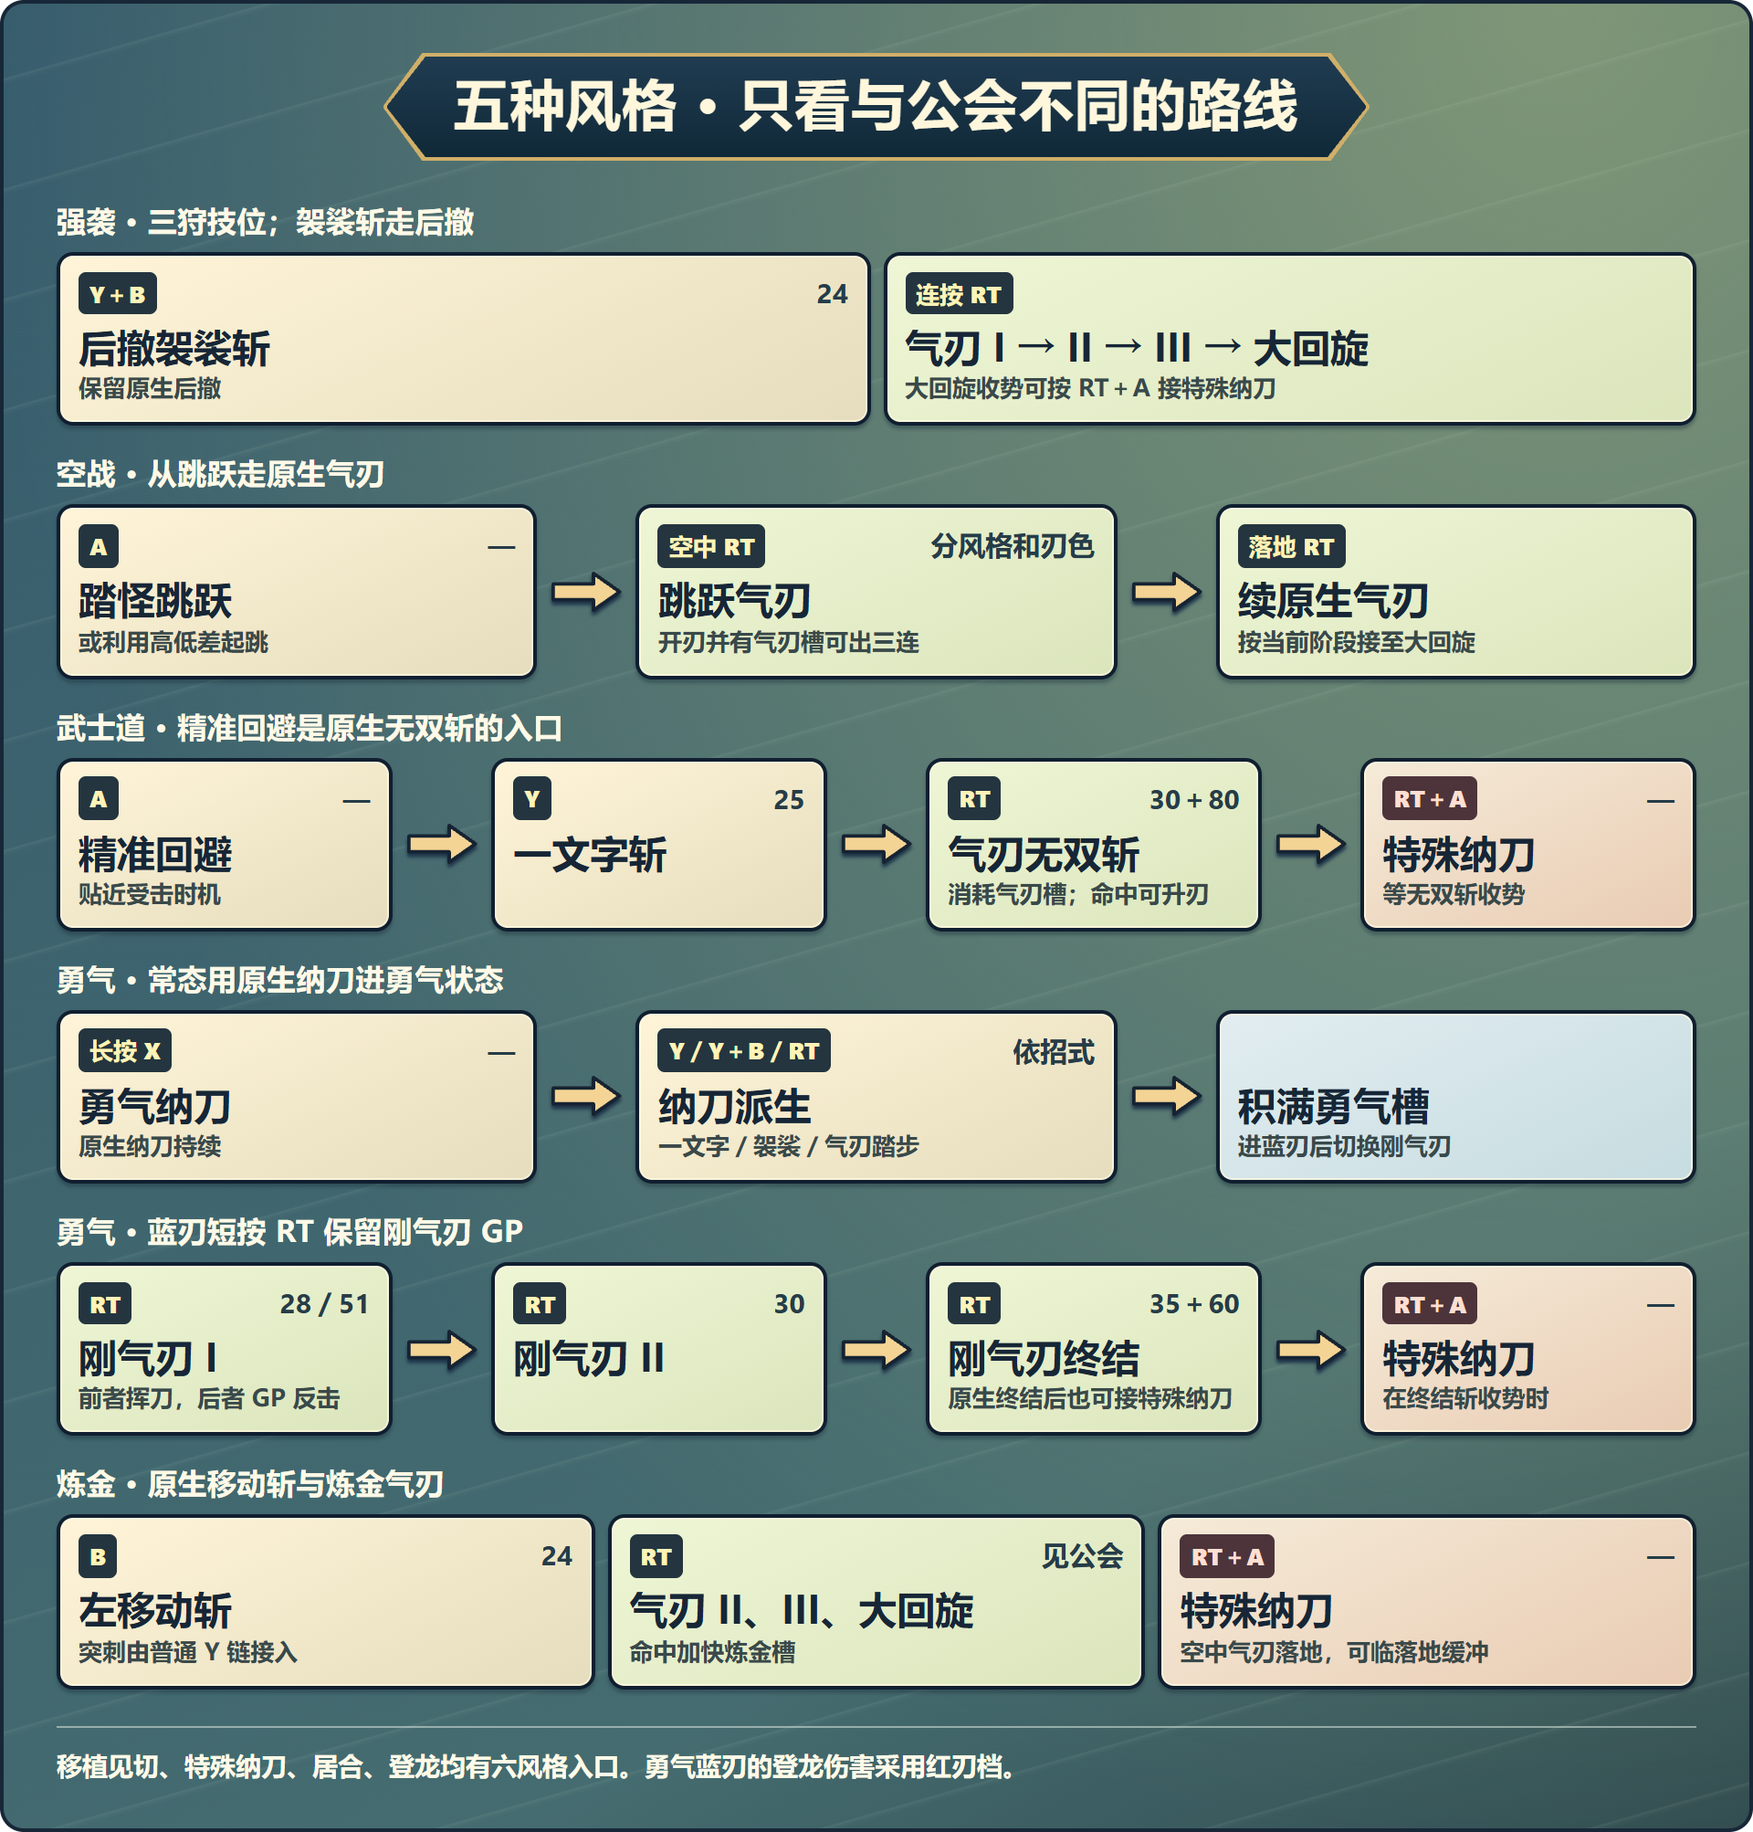
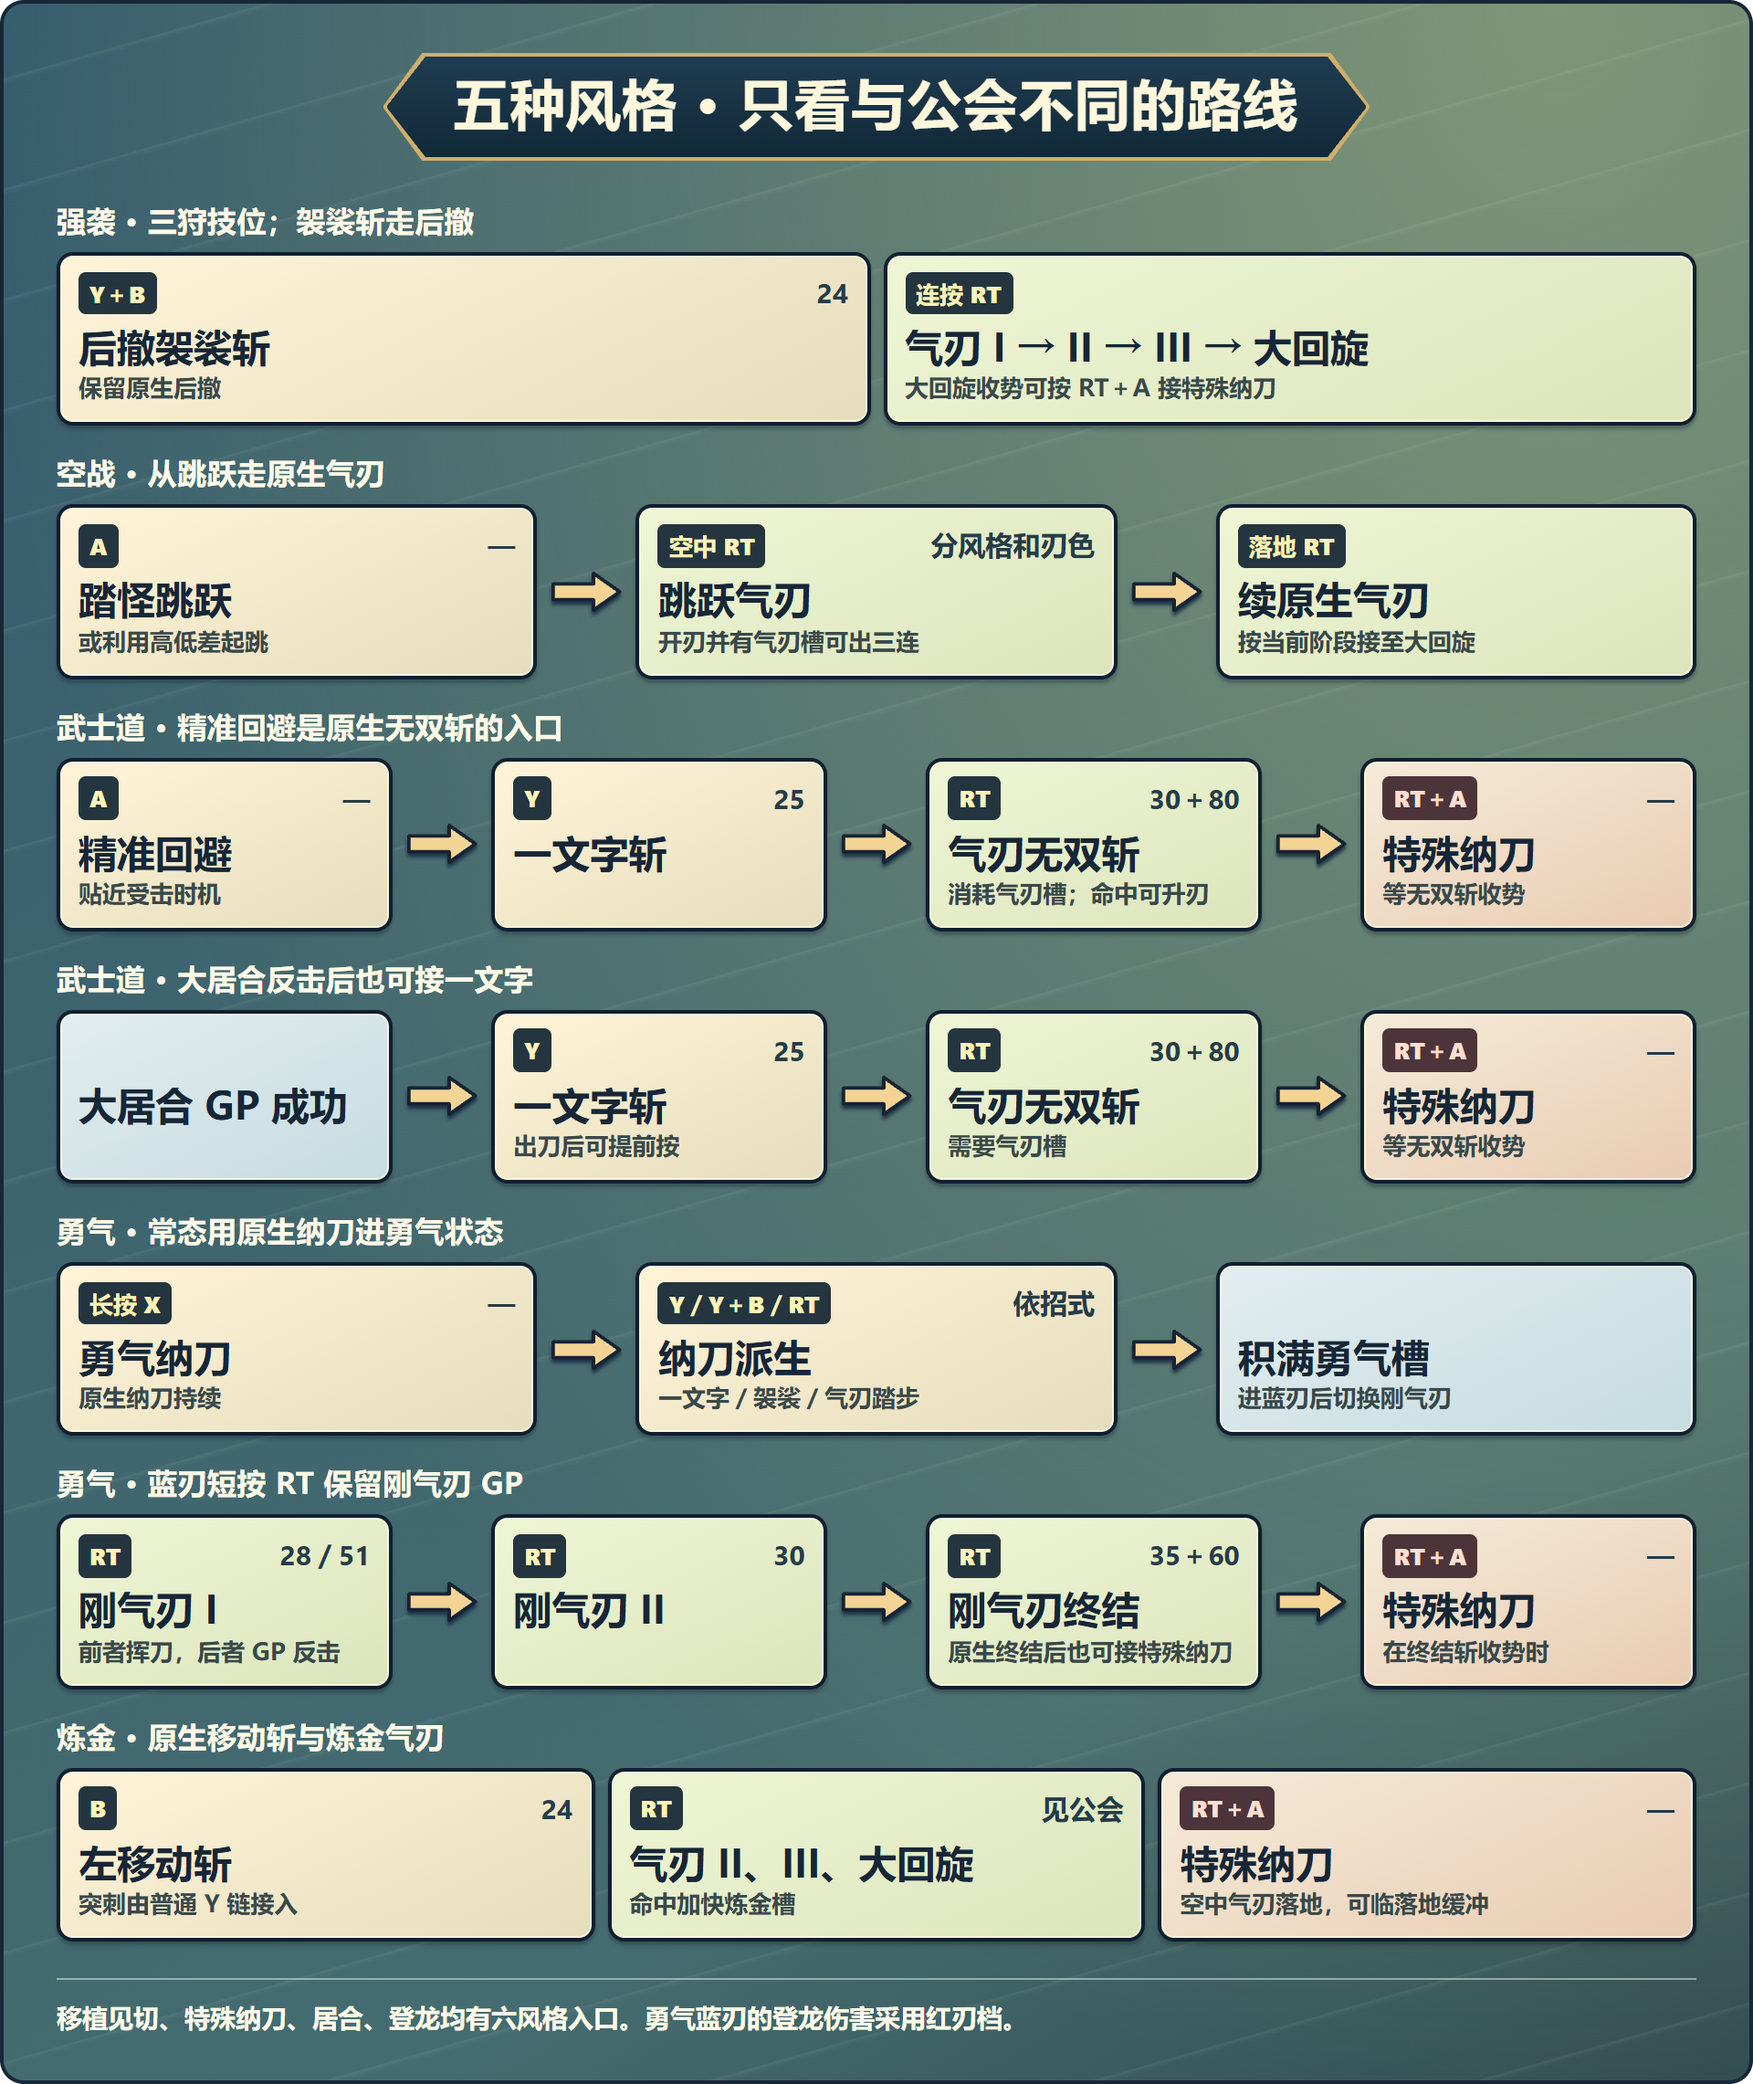
Link Adept Iai counters to the native Ichimonji and Reckoning chain

diff --git a/README.md b/README.md
@@ -2,13 +2,13 @@
 
 把《世界／冰原》的见切、居合、登龙和《荒野》的赤刃、气刃蓄力、练气解放带进《怪物猎人 GU》。六种狩猎风格都能用这套太刀，勇气刚气刃、武士道无双斩等原生招式仍可使用。
 
-**[下载 v1.2.9 整合包](https://github.com/skeyep/MHGU-Yuzu-ZR/releases/download/v1.2.9/MHGU-Yuzu-ZR-v1.2.9.zip)** · [更新记录](CHANGELOG.md) · [来源与修改说明](SOURCES.md) · [项目源码](source/BUILD.md)
+**[下载 v1.2.10 整合包](https://github.com/skeyep/MHGU-Yuzu-ZR/releases/download/v1.2.10/MHGU-Yuzu-ZR-v1.2.10.zip)** · [更新记录](CHANGELOG.md) · [来源与修改说明](SOURCES.md) · [项目源码](source/BUILD.md)
 
 适用 **Windows Yuzu 1734** 和 **MHGU 国际版 1.4.0**（`0100770008DD8000`）。包内有太刀、Forge 1.5.1、伤害跳字、快捷轮盘和可选 Xbox 按键提示。游戏、模拟器、存档和密钥由玩家自行准备。
 
 ## 安装
 
-1. 退出游戏。下载并解压 Releases 中的 `MHGU-Yuzu-ZR-v1.2.9.zip`，双击 **Install.cmd**。
+1. 退出游戏。下载并解压 Releases 中的 `MHGU-Yuzu-ZR-v1.2.10.zip`，双击 **Install.cmd**。
 2. 如果安装器列出重复的太刀、Forge、跳字或轮盘插件，把对应旧目录移到游戏模组目录之外，再运行安装器。
 3. 到 Yuzu 的游戏属性，启用 **MHGU-ZR-Integrated**。启用 **MHGU-Xbox-Prompts** 可显示 Xbox 按键。切换提示后重启游戏。
 4. 在 Yuzu 控制器配置里确认 Xbox **RT 对应 ZR**，**RB 对应 R**，**LT 对应 ZL**，**LB 对应 L**。
@@ -57,7 +57,9 @@
 
 强袭、空战、武士道、勇气和炼金共用整合招式。输入窗口和原生气刃收尾随风格变化。
 
-![强袭、空战、武士道、勇气和炼金相对公会的路线差异](docs/style-differences.webp)
+武士道大居合 GP 成功后按 **Y** 接一文字斩，气刃足够时再按 **RT** 接气刃无双斩，收势按 **RT＋A** 特殊纳刀。原生精准回避后的 Y 也能进入同一条路线。
+
+![强袭、空战、武士道、勇气和炼金相对公会的路线差异，含武士道大居合后接一文字](docs/style-differences.webp)
 
 移动气刃后接一文字，武士道先用 A 精准回避，勇气先长按 X 进入原生纳刀持续，随后都按 Y。 [拖刀、移动气刃与一文字斩](docs/combos.md#拖刀移动气刃与一文字斩)
 
@@ -83,7 +85,7 @@
 
 ## English quick start
 
-For **Windows Yuzu 1734** and **international MHGU 1.4.0**. Download the [v1.2.9 release ZIP](https://github.com/skeyep/MHGU-Yuzu-ZR/releases/tag/v1.2.9), close the game, extract it, and run **Install.cmd**. Enable **MHGU-ZR-Integrated** and optionally **MHGU-Xbox-Prompts** in Yuzu.
+For **Windows Yuzu 1734** and **international MHGU 1.4.0**. Download the [v1.2.10 release ZIP](https://github.com/skeyep/MHGU-Yuzu-ZR/releases/tag/v1.2.10), close the game, extract it, and run **Install.cmd**. Enable **MHGU-ZR-Integrated** and optionally **MHGU-Xbox-Prompts** in Yuzu.
 
 The moveset brings Foresight, Special Sheathe, Iai, Helm Breaker, Crimson Slash, Spirit Charge, and Spirit Release to all six hunting styles. **RT** (Switch ZR) handles Spirit attacks, including aerial draws. **RT+A** is Special Sheathe, **RT+B** is Foresight, and **RT+Y** is Spirit Thrust. Hold **LB** for the item wheel. Use Type 2 controls for Hunter Arts with **LT+Y**, **LT+X**, and **LT+A**.
 

diff --git a/CHANGELOG.md b/CHANGELOG.md
@@ -1,5 +1,9 @@
 # 更新记录
 
+## 1.2.10
+
+- 武士道大居合反击成功后，按 Y 可接原生一文字斩。气刃足够时接 RT 无双斩，收势按 RT＋A 接特殊纳刀。精准回避后的原生路线也可用。
+
 ## 1.2.9
 
 - 恢复世界 ZR 循环版的小居合派生。小居合收势可按 RT＋A 再次特殊纳刀，允许在出刀后提前输入。
